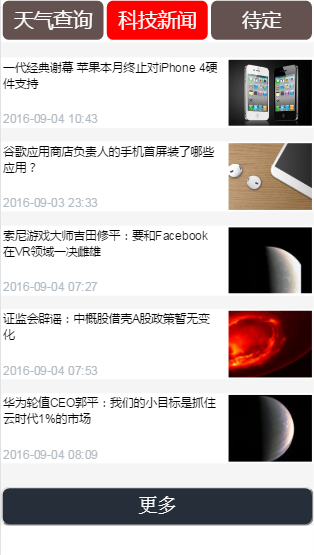
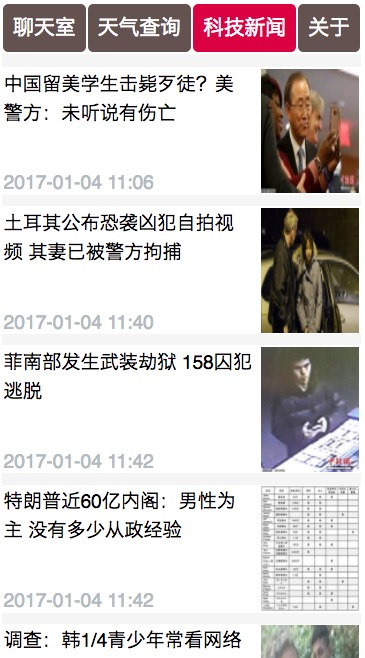
添加聊天室

diff --git a/src/main/chat.vue b/src/main/chat.vue
@@ -1,0 +1,180 @@
+<!-- chat.vue -->
+
+<template>
+	<div id="chat" >
+		<div class='people_num'>人数: {{people_num}}</div>
+		<div class='chat_content'>
+			<div v-for='message of messages' class='message clearfix'>
+				<div v-if='message.system_message' class='system_message'>{{message.system_message}}</div>
+				<div v-if='message.content' :class='[mess, message.isMe ? "pull-right" : "pull-left" ]'>
+					<p class='username name'>{{message.name}}</p>
+					<p class='content'>{{message.content}}</p>
+				</div>
+			</div>
+		</div>
+		<div class='chat_input'>
+			<input type='text' v-model='content' @keyup.enter='sendMessage' placeholder="输入框"></input>
+		</div>
+	</div>
+
+</template>
+
+<script>
+
+	//socket
+	const socket = io.connect();
+
+	export default {
+		data(){
+			return {
+				people_num: 0,
+				content: '',
+				messages:[
+					// {
+					// 	isMe: false,      //判断信息显示左边还是右边（自己是右边，别人是左边）
+					//  system_message: '',  //系统消息
+					// 	name: '21332',
+					// 	content: '哈哈'
+					// }
+				],
+				userName: ''
+			}
+		},
+		mounted(){
+			this.$nextTick(function(){
+				//获取手机高度
+				const screenHeight = document.documentElement.clientHeight,
+					  headerHeight = document.querySelector('.container header').offsetHeight;
+
+				this.$el.style.height = screenHeight - headerHeight - 50 + 'px';
+
+				const name = prompt('输入您的名字');
+
+				this.userName = name;
+
+				
+				socket.emit('login', this.userName);
+
+				 
+				/*
+				 * 监听socket事件
+				 */
+
+				//储存vue实例
+				const vm = this;
+
+				//关闭页面触发
+				window.onbeforeunload = function() {  
+				   socket.emit('exitChat', vm.userName);
+				} 
+
+				//更新人数
+				socket.on('updateSize', function(size, name, isExit){
+					vm.people_num = size;
+					//判断是否是初始化还是有新用户加入
+					console.log(name);
+					if(name){
+						const system_message = isExit ? `${name}退出了聊天室` : `欢迎${name}，加入聊天室` ;
+						vm.messages.push({
+							system_message: system_message
+						})
+					}
+				});
+				//更新其他人发送的消息
+				socket.on('updateMessage', function(data){
+					vm.messages.push(data)
+				});
+			})
+			
+		},	
+		methods:{
+			sendMessage(){
+				//传递
+				let data = {
+					isMe: false,
+					name: this.userName,
+					content: this.content
+				}
+				socket.emit('sendMessage', data );
+
+				//本地增加
+				data.isMe = true;
+				this.messages.push(data);
+
+				//清空内容
+				this.content = '';
+			}
+		}
+	}
+</script>
+
+<style>
+
+#chat{
+	display: flex;
+	flex-flow: column;
+	margin-top:1rem;	
+	border:0.3rem solid #ccc;
+}
+#chat .clearfix:after{
+	content: '';
+	display:block;
+	clear:both;
+	height:0;
+}
+/*people_num*/
+#chat .people_num{
+	height:2rem;
+	background: #999;
+	line-height:2rem;
+	padding-left:0.5rem;
+	border:1px solid;
+}
+
+
+#chat .message{
+	margin:1rem 0;
+	padding:0 0.5rem;
+}
+#chat .message div.system_message{
+	text-align:center;
+	font-size:12px;
+	color:#333;
+}
+#chat .message div.mess{
+	width:50%;
+}
+#chat .pull-right{
+	float:right;
+	text-align:right;
+}
+#chat p.name{
+	text-align:right;
+	color:#999;
+}
+
+#chat .pull-left p.name{
+	text-align:left;
+}
+#chat .chat_content{
+	width:100%;
+	height:92%;
+	overflow-x:scroll;
+	border-bottom: 0.3rem solid #ccc;
+}
+
+#chat .chat_input{
+	flex:1;
+	display: flex;
+	align-items: center;
+	justify-content: center;
+	padding:1rem;
+}
+
+#chat .chat_input input[type='text']{
+	width:100%;
+	height:1.2rem;
+	border:0.1rem solid #a79fab;
+	padding-left:0.5rem;
+}
+</style>

diff --git a/src/router/socket.js b/src/router/socket.js
@@ -1,0 +1,39 @@
+module.exports = function(server){
+
+	let io = require('socket.io').listen(server),
+
+		user = new Map(),
+		newArticles = [];
+
+	io.sockets.on('connection', function(socket) {
+
+		//建立连接就获取最新数据
+		io.sockets.emit('updateSize', user.size);
+		
+	    //login
+	    socket.on('login', function(userName){
+	    	user.set(userName, socket.id);
+	    	console.log('Hello, ' + userName);
+	    	io.sockets.emit('updateSize', user.size, userName, false)
+	    }); 
+	    
+	    //sendMessage
+	    socket.on('sendMessage', function(data) {
+	        socket.broadcast.emit('updateMessage', data);  //传递给除了自身的其他用户
+	    });
+
+	    //exit
+	    socket.on('exitChat', function(userName){
+	    	user.delete(userName);
+	        console.log(userName + '离开了聊天室！');
+	        io.sockets.emit('updateSize', user.size, userName, true);
+	    })
+
+	    //disconnect 是固定的，无法传入数据, 所有新增一个exitChat
+	    // socket.on('disconnect', function(type) {
+	    //     user.delete(userName);
+	    //     console.log(userName)
+	    //     io.sockets.emit('updateSize', user.size, userName, true);
+	    // });
+	});
+}

diff --git a/src/index.vue b/src/index.vue
@@ -2,6 +2,7 @@
     <div class='container'>
         <header>
             <nav class='nav'>
+                <router-link to='/chat'>聊天室</router-link>
                 <router-link to="/weather">天气查询</router-link>
                 <router-link to="/news">科技新闻</router-link>
                 <router-link to="/about">关于</router-link>
@@ -19,11 +20,10 @@
 
     export default {
 
-        beforeMount() {
-            //默认为weather
-            this.$router.push('weather');
+        created() {
+            //默认为chat
+            this.$router.push('news');
         },
-
     }
 </script>
 <style>
@@ -42,15 +42,16 @@
     }
     header .nav{
         display:flex;
-        height:4rem;
-        font-size:1.5rem;
+
+        height:3rem;
+        font-size:1.3rem;
     }
     header .nav > a{
         display:block;
         border:0.1rem solid;
         height:100%;
-        line-height:4rem;
-        flex:1;
+        line-height:3rem;
+        flex:auto;
         text-align:center;
         background:#63524f;
         color:#fff;

diff --git a/src/router/router.js b/src/router/router.js
@@ -1,15 +1,16 @@
-
 import VueRouter from 'vue-router'
 
 //components
-const weather = require('../components/weather.vue');
-const news = require('../components/news.vue');
-const about = require('../components/about.vue');
+const chat = require('../main/chat.vue'),
+	  weather = require('../main/weather.vue'),
+	  news = require('../main/news.vue'),
+	  about = require('../main/about.vue');
 
 const router = new VueRouter({
     mode: 'history',
     base: __dirname,
     routes: [
+    	{ path: '/chat', component: chat },
         { path: '/weather', component: weather },
         { path: '/news', component: news },
         { path: '/about', component: about }

diff --git a/index.html b/index.html
@@ -1,11 +1,13 @@
 <!DOCTYPE html>
 <html>
-  <head>
-    <meta charset="utf-8">
-    <title>vue-app</title>
-  </head>
-  <body>
-    <div id="app"></div>
-    <!-- built files will be auto injected -->
-  </body>
+	<head>
+	  	<meta charset="utf-8">
+		<meta name="viewport" content="width=device-width,initial-scale=1.0,minimum-scale=1.0,maximum-scale=1.0,user-scalable=no"/>
+		<title>vue-app</title>
+	</head>
+	<body>
+		<div id="app"></div>
+		<!-- built files will be auto injected -->
+		<script src="/socket.io/socket.io.js"></script>
+	</body>
 </html>

diff --git a/src/main/weather.vue b/src/main/weather.vue
@@ -18,7 +18,7 @@
 </template> 
 
 <script>
-    import loading from './loading.vue'
+    import loading from './../components/loading.vue'
     import apikey from './../apikey.js'
 
     export default {
@@ -32,7 +32,7 @@
             }
         },
         components: {
-          loading
+            loading
         }, 
         methods: {
             getWeather(){

diff --git a/src/main/news.vue b/src/main/news.vue
@@ -18,7 +18,7 @@
 
 
 <script>
-    import loading from './loading.vue'
+    import loading from './../components/loading.vue'
     import apikey from './../apikey.js'
 
     export default {
@@ -114,7 +114,7 @@
         flex:1;
     }
     .new_every .img img{
-        width:60%;
+        width:100%;
         height:100%;
         display:block;
         float:right;

diff --git a/config/index.js b/config/index.js
@@ -18,7 +18,7 @@ module.exports = {
   },
   dev: {
     env: require('./dev.env'),
-    port: 8080,
+    port: 8888,
     assetsSubDirectory: 'static',
     assetsPublicPath: '/',
     proxyTable: {},

diff --git a/app.js b/app.js
@@ -1,0 +1,8 @@
+// app.js
+
+var chatSocket = require('./src/router/socket.js')
+var server = require('./build/dev-server.js') 
+
+
+//添加socket
+chatSocket(server);

diff --git a/src/main.js b/src/main.js
@@ -6,8 +6,7 @@ import router from './router/router.js'
 
 
 //components
-import app from './components/index.vue'
-
+import app from './index.vue'
 
 
 

diff --git a/src/main/js/chatSocket.js b/src/main/js/chatSocket.js
@@ -1,0 +1,6 @@
+// chatSocket.js
+
+//连接socket
+const socket = io.connect();
+
+
